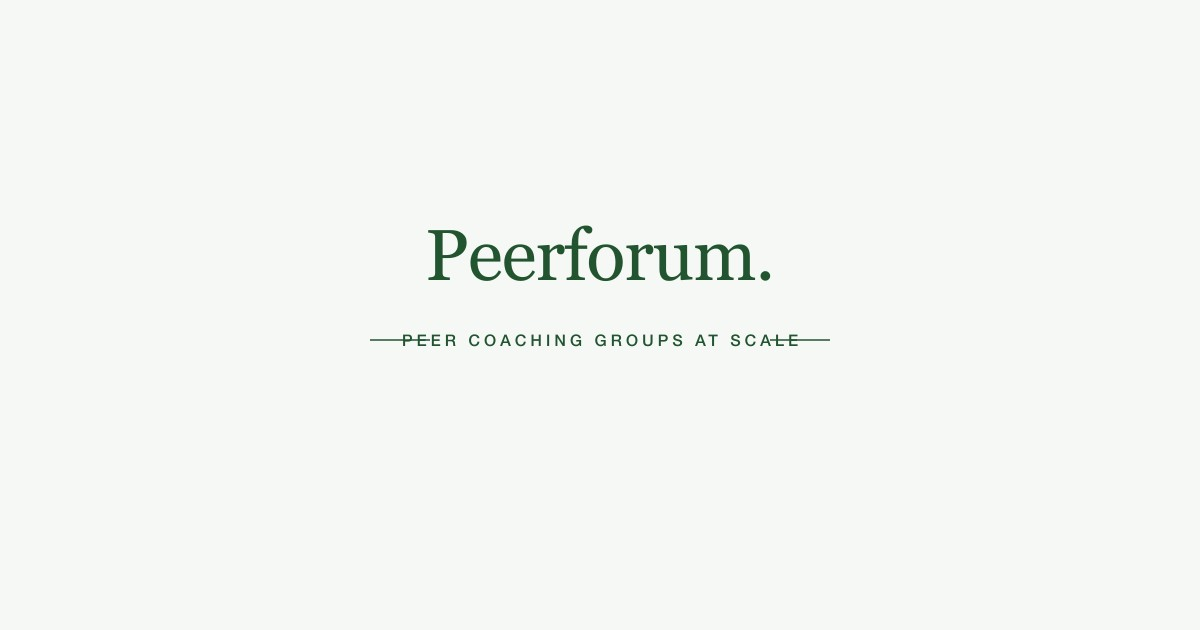
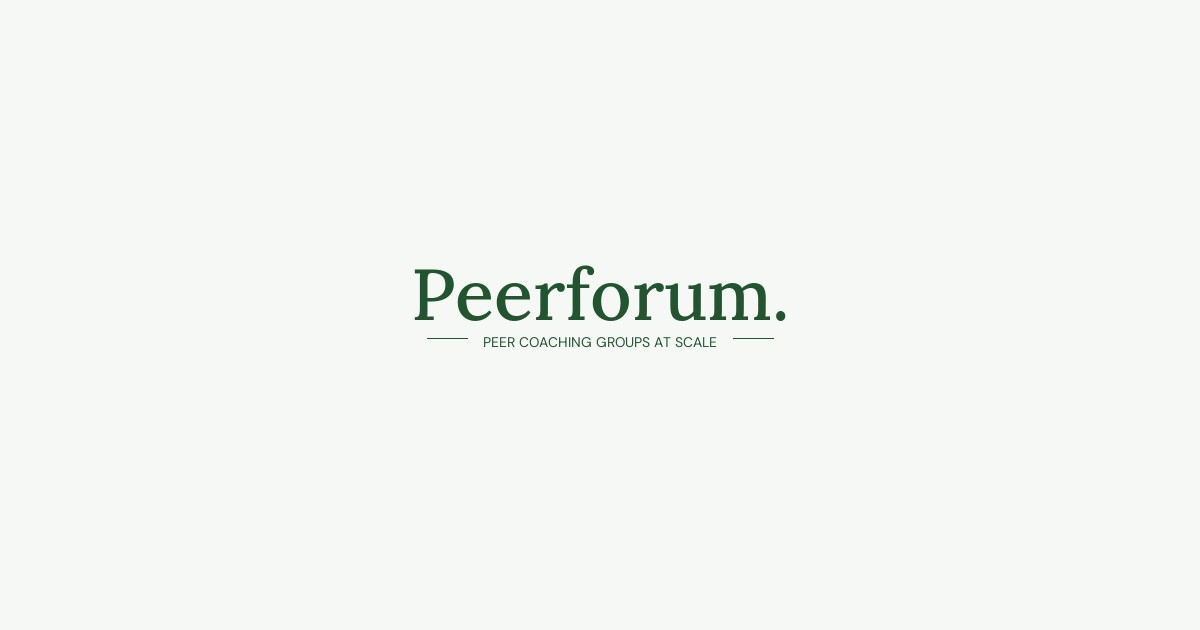
fix: add gap between decorative lines and tagline in OG image
The horizontal lines were overlapping the "PEER COACHING GROUPS AT SCALE"
text. Added 16px gap on each side and created a regeneration script.

Changed region(s): [[0.3083, 0.3619, 0.6783, 0.573]]

diff --git a/scripts/generate-og-image.py b/scripts/generate-og-image.py
@@ -1,0 +1,113 @@
+#!/usr/bin/env python3
+"""Generate the Peerforum OG image with proper tagline line spacing."""
+
+import os
+import urllib.request
+from PIL import Image, ImageDraw, ImageFont
+
+SCRIPT_DIR = os.path.dirname(os.path.abspath(__file__))
+PROJECT_ROOT = os.path.dirname(SCRIPT_DIR)
+OUTPUT_PATH = os.path.join(PROJECT_ROOT, "public", "og-image.png")
+FONTS_DIR = os.path.join(SCRIPT_DIR, ".fonts")
+
+# OG image dimensions (1200x630 standard)
+WIDTH, HEIGHT = 1200, 630
+
+# Brand colors
+BG_COLOR = (246, 248, 246)       # #F6F8F6
+ACCENT_SAGE = (34, 84, 48)      # #225430
+
+
+def download_font(url, filename):
+    """Download a font file if not already cached."""
+    os.makedirs(FONTS_DIR, exist_ok=True)
+    path = os.path.join(FONTS_DIR, filename)
+    if not os.path.exists(path):
+        print(f"Downloading {filename}...")
+        urllib.request.urlretrieve(url, path)
+    return path
+
+
+def get_fonts():
+    """Download and return Lora and DM Sans fonts."""
+    # Google Fonts direct TTF URLs
+    lora_url = "https://github.com/cyrealtype/Lora-Cyrillic/raw/main/fonts/ttf/Lora-Medium.ttf"
+    dm_sans_url = "https://raw.githubusercontent.com/google/fonts/main/ofl/dmsans/DMSans%5Bopsz%2Cwght%5D.ttf"
+
+    lora_path = download_font(lora_url, "Lora-Medium.ttf")
+    dm_sans_path = download_font(dm_sans_url, "DMSans-Medium.ttf")
+
+    return lora_path, dm_sans_path
+
+
+def generate():
+    lora_path, dm_sans_path = get_fonts()
+
+    # Load fonts
+    logo_font = ImageFont.truetype(lora_path, 72)
+    tagline_font = ImageFont.truetype(dm_sans_path, 14)
+
+    # Create image
+    img = Image.new("RGB", (WIDTH, HEIGHT), BG_COLOR)
+    draw = ImageDraw.Draw(img)
+
+    center_x = WIDTH // 2
+    center_y = HEIGHT // 2
+
+    # Draw logo "Peerforum."
+    logo_text = "Peerforum."
+    logo_bbox = draw.textbbox((0, 0), logo_text, font=logo_font)
+    logo_w = logo_bbox[2] - logo_bbox[0]
+    logo_h = logo_bbox[3] - logo_bbox[1]
+    logo_x = center_x - logo_w // 2
+    logo_y = center_y - logo_h // 2 - 40  # Shift up to make room for tagline
+    draw.text((logo_x, logo_y), logo_text, fill=ACCENT_SAGE, font=logo_font)
+
+    # Draw tagline with decorative lines
+    tagline = "PEER COACHING GROUPS AT SCALE"
+    tag_bbox = draw.textbbox((0, 0), tagline, font=tagline_font)
+    tag_w = tag_bbox[2] - tag_bbox[0]
+    tag_h = tag_bbox[3] - tag_bbox[1]
+
+    tag_x = center_x - tag_w // 2
+    tag_y = logo_y + logo_h + 30  # Below logo
+
+    # Draw tagline text
+    draw.text((tag_x, tag_y), tagline, fill=ACCENT_SAGE, font=tagline_font)
+
+    # Decorative lines with proper gap (16px from text)
+    gap = 16
+    line_length = 40
+    line_y = tag_y + tag_h // 2  # Vertically centered with text
+    line_thickness = 1
+
+    # Left line: ends before text starts
+    left_line_end = tag_x - gap
+    left_line_start = left_line_end - line_length
+    draw.line(
+        [(left_line_start, line_y), (left_line_end, line_y)],
+        fill=ACCENT_SAGE,
+        width=line_thickness,
+    )
+
+    # Right line: starts after text ends
+    right_line_start = tag_x + tag_w + gap
+    right_line_end = right_line_start + line_length
+    draw.line(
+        [(right_line_start, line_y), (right_line_end, line_y)],
+        fill=ACCENT_SAGE,
+        width=line_thickness,
+    )
+
+    # Save
+    img.save(OUTPUT_PATH, "PNG", optimize=True)
+    print(f"Generated: {OUTPUT_PATH}")
+
+    # Also save as JPG
+    jpg_path = OUTPUT_PATH.replace(".png", ".jpg")
+    img.save(jpg_path, "JPEG", quality=90, optimize=True)
+    print(f"Generated: {jpg_path}")
+
+
+if __name__ == "__main__":
+    generate()
